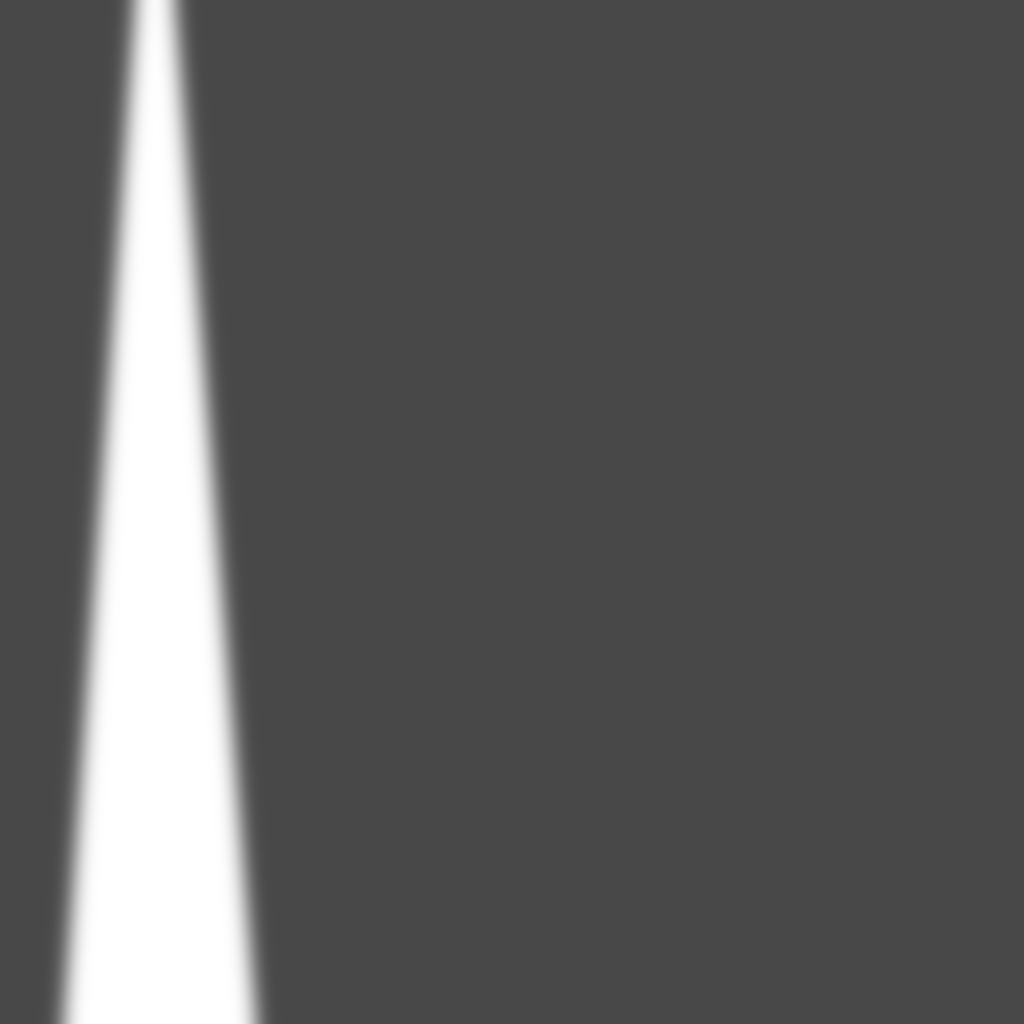
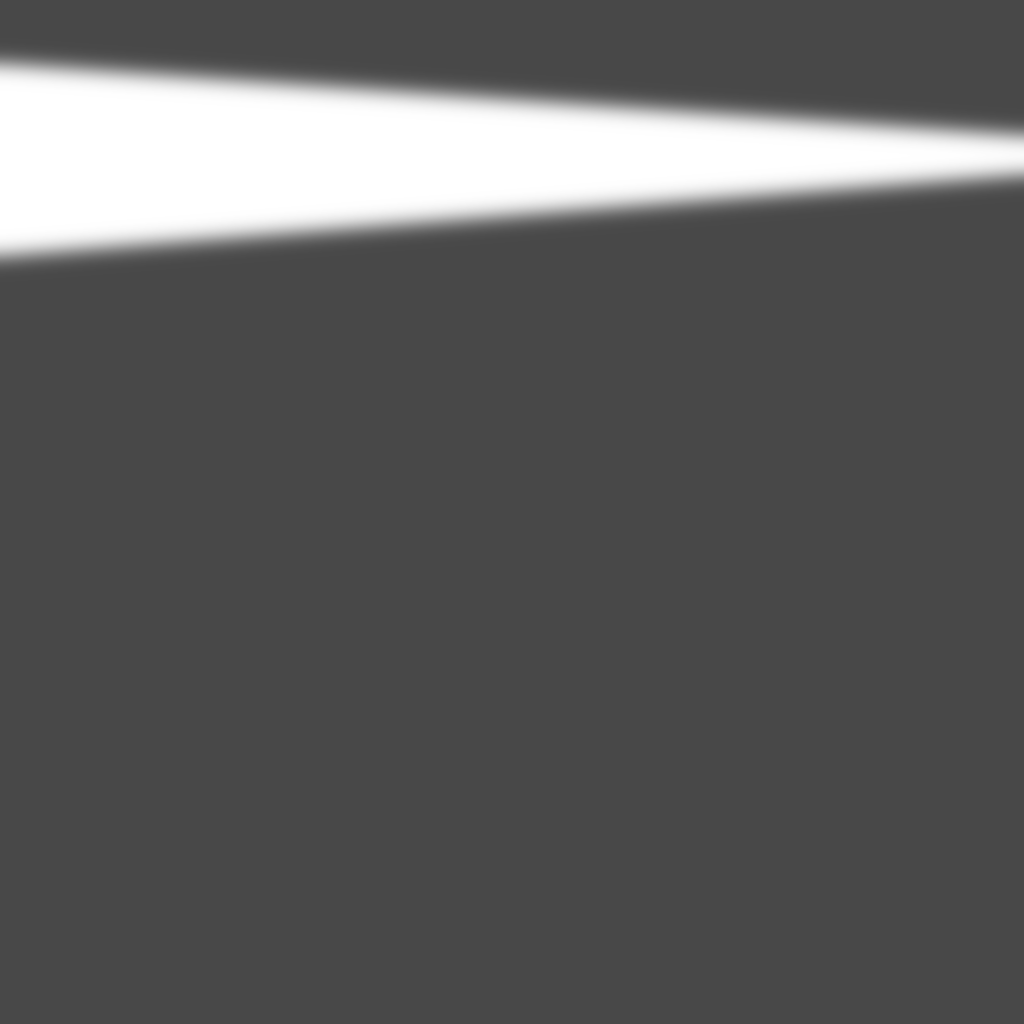
portrait changes and civvies

Changed region(s): [[0.0, 0.0, 1.0, 1.0]]

diff --git a/GGJ14/src/uk/co/vault101/actor/Beastie.java b/GGJ14/src/uk/co/vault101/actor/Beastie.java
@@ -9,7 +9,7 @@ import com.badlogic.gdx.scenes.scene2d.InputListener;
 import com.badlogic.gdx.graphics.g2d.SpriteBatch;
 
 public class Beastie extends Actor {
-	final Texture texture = new Texture(Gdx.files.internal("image/player.png"));
+	final Texture texture;
 	final Texture textureDead = new Texture(Gdx.files.internal("image/blood_splash.png"));
 	final Sound sound = Gdx.audio.newSound(Gdx.files.internal("sound/splat0.ogg"));
 	private boolean alive = true;
@@ -18,6 +18,7 @@ public class Beastie extends Actor {
 	
     public Beastie (float speed) {
     	this.speed = speed; 
+    	texture = new Texture(Gdx.files.internal("image/civilian"+((int)(Math.random()*5))+".png"));
     	setBounds(getX(), getY(),texture.getWidth(),texture.getHeight());
     	addListener(new InputListener(){
             public boolean touchDown (InputEvent event, float x, float y, int pointer, int button) {
@@ -33,7 +34,7 @@ public class Beastie extends Actor {
     public void act(float delta) {
     	super.act(delta);
     	if(alive){
-            this.setX(this.getX()+(speed*delta));
+            this.setY(this.getY()-(speed*delta));
         }
     	//System.out.println("ACTING: to be or not to be that is the question!");
     }

diff --git a/GGJ14/src/uk/co/vault101/terrain/Background.java b/GGJ14/src/uk/co/vault101/terrain/Background.java
@@ -16,13 +16,12 @@ public class Background extends Actor {
     	Texture texture = new Texture(Gdx.files.internal(asset));
     	texture.setFilter(TextureFilter.Linear, TextureFilter.Linear);
     	setBounds(getX(), getY(),texture.getWidth(),texture.getHeight());
-		region = new TextureRegion(texture, 0, 0, 1024, 640);
+		region = new TextureRegion(texture, 0, 0, 640, 1024);
     }
 
     @Override
     public void act(float delta) {
     	super.act(delta);
-    	//System.out.println("ACTING: to be or not to be that is the question!");
     }
     
     @Override
